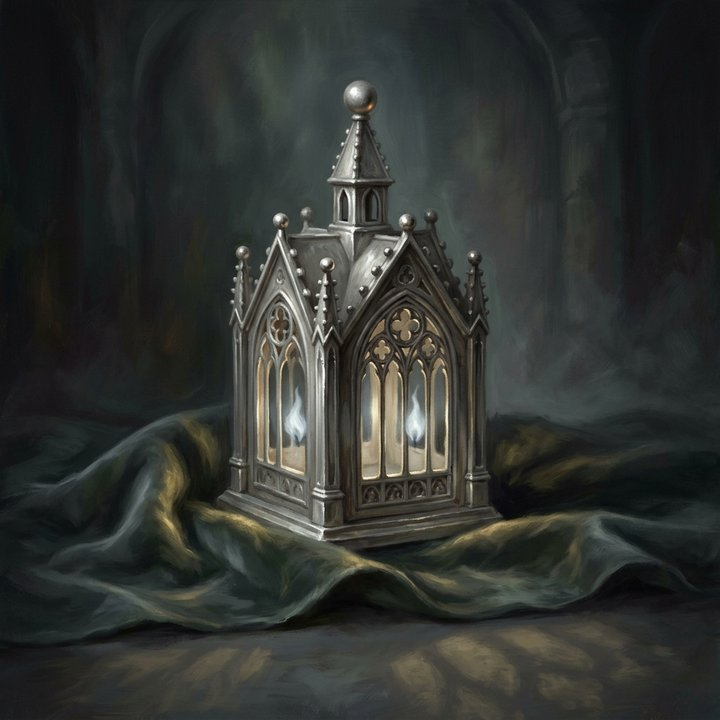
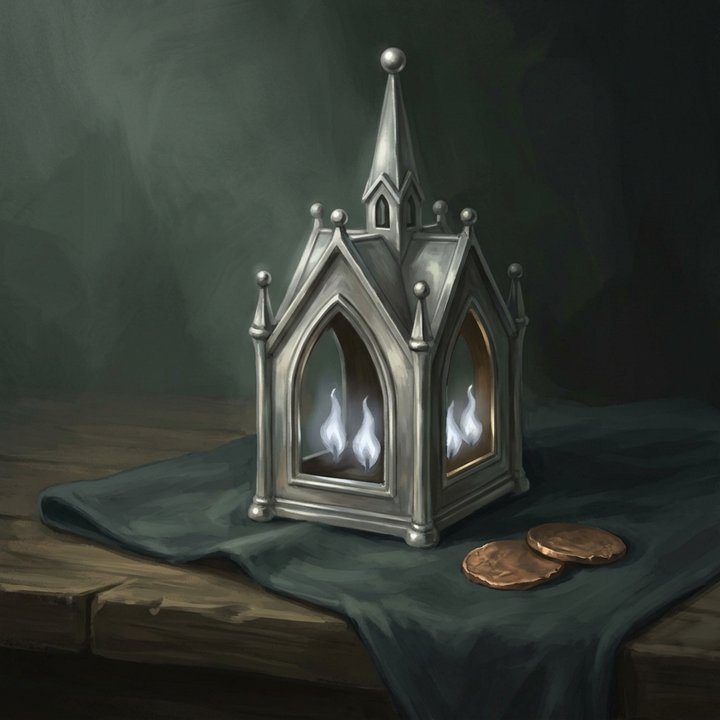
Fix the Ladies Three star carving and the reliquary's size
A blind look check failed both and Chris agreed: the star was flat lines
next to a carved raven, and nothing showed the reliquary is palm-sized.
The star is now carved and weathered like the raven; the reliquary sits
beside two hammered copper coins for scale.

Claude-Session: https://claude.ai/code/session_01U8i5qWfGKkg5NzHW6TNXmV

diff --git a/content/wiki/reliquary-of-two-flames.md b/content/wiki/reliquary-of-two-flames.md
@@ -7,7 +7,7 @@ source: Compiled from the adventure log, with a description written for the site
 
 ## Description
 
-![The palm-sized silver reliquary holding the two flames of Liren and Gumbo](/images/reliquary-of-two-flames-ai.jpg)
+![The palm-sized silver reliquary holding the two flames of Liren and Gumbo, on a cloth beside two old copper coins](/images/reliquary-of-two-flames-ai.jpg)
 
 *A silver reliquary small enough to sit in a palm. AI-generated image (Google Gemini, November 2026), drawn from this page and the session logs. Not official art.*
 
